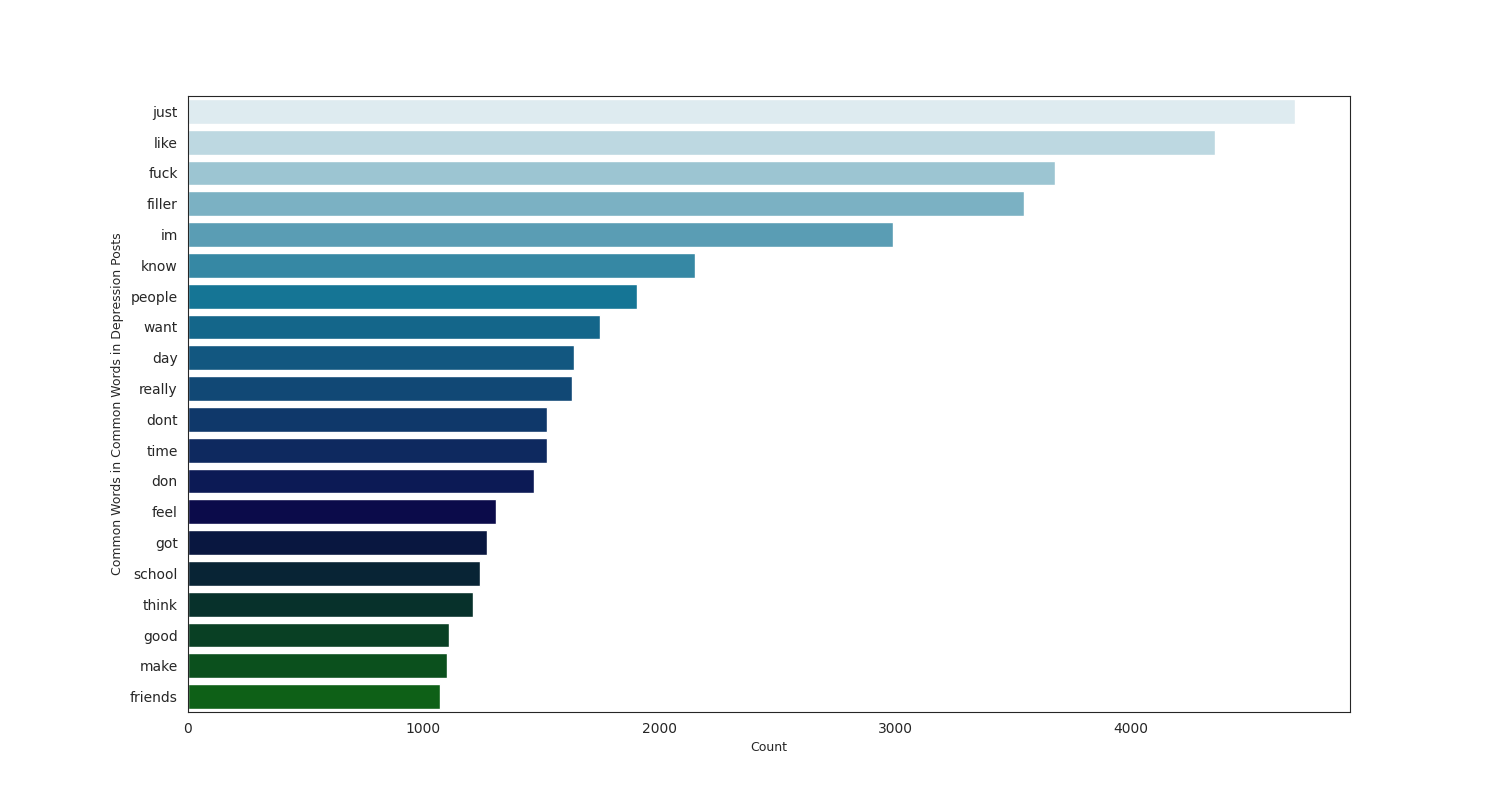
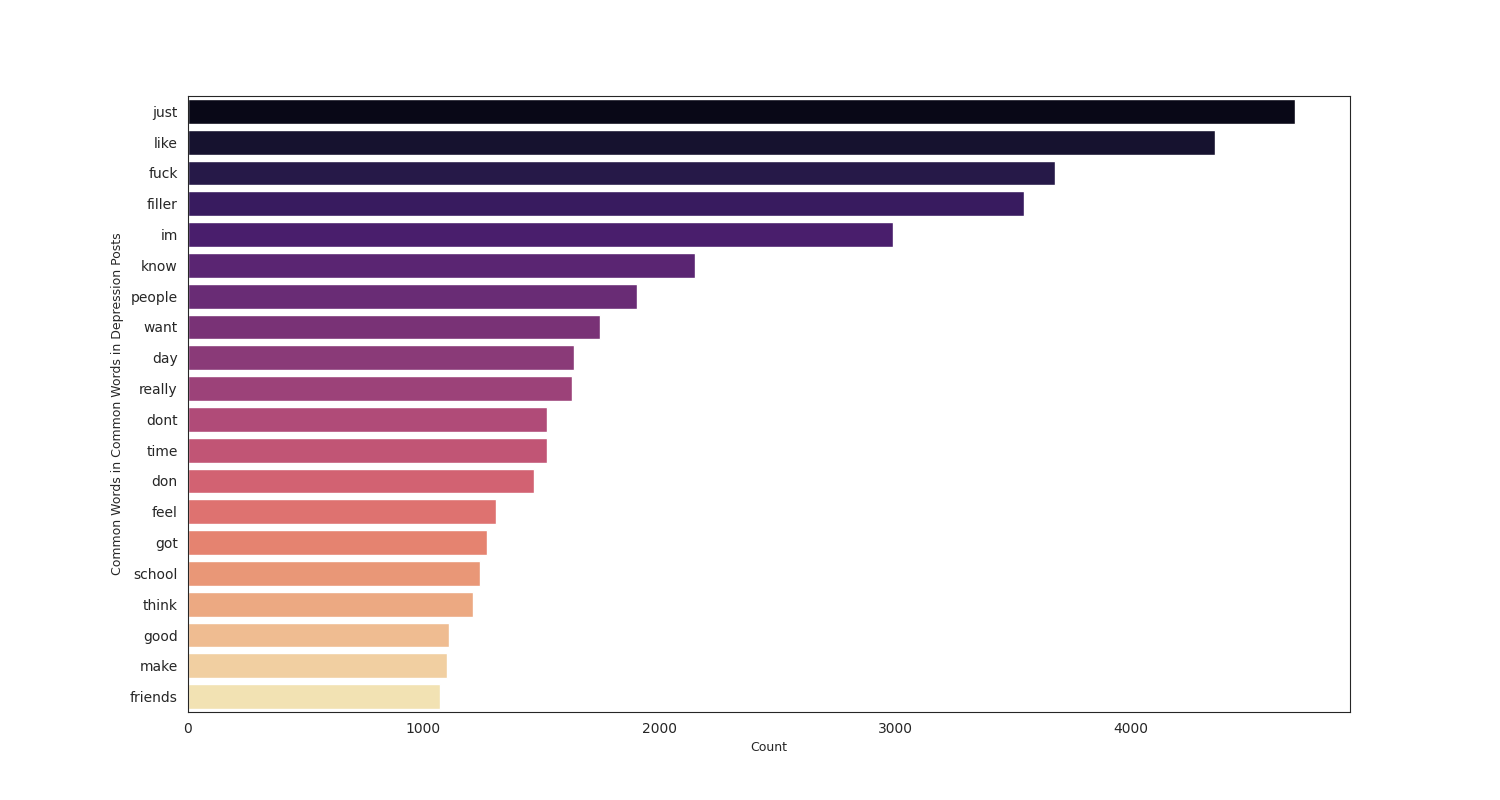
Finish post length plot (figure is saved)

Changed region(s): [[0.1227, 0.125, 0.8893, 0.9062]]

diff --git a/text_feature_exploration.py b/text_feature_exploration.py
@@ -7,6 +7,7 @@ import pandas as pd
 import seaborn as sns
 import matplotlib.pyplot as plt
 from PIL import Image
+from statistics import mean
 
 
 
@@ -48,9 +49,45 @@ def plot_most_used_words(dataname, data_series, palette):
     plt.ylabel('Common Words in ' + dataname, fontsize=9)
     plt.savefig('/home/nauxiy/Workspace/Suicidal-posts-detection-SNLP-/plots/' + dataname + ".png")
 
-    plt.show()
+    # plt.show()
     
 
 plot_most_used_words("Common Words in Suicidal Posts", suicide_posts, palette="ocean_r")
-plot_most_used_words("Common Words in Depression Posts", depress_posts, palette="ocean_r")
+plot_most_used_words("Common Words in Depression Posts", depress_posts, palette="magma")
 plot_most_used_words("Common Words in General Posts", general_posts, palette="ocean_r")
+
+# COLLECT EACT POST'S LENGTH
+sui_selftext_length = [len(suicide_posts[i]) for i in range(len(suicide_posts))]
+dep_selftext_length = [len(depress_posts[i]) for i in range(len(suicide_posts))]
+gen_selftext_length = [len(general_posts[i]) for i in range(len(suicide_posts))]
+
+# CALCULATE AVERAGE POST LENGTH IN EACH CLASS
+ave_sui_selftext_length = mean(sui_selftext_length)
+ave_dep_selftext_length = mean(dep_selftext_length)
+ave_gen_selftext_length = mean(gen_selftext_length)
+
+print("__________________________________")
+print("Average length of a suicidal post: {}".format(ave_sui_selftext_length))
+print("Average length of a depression post: {}".format(ave_dep_selftext_length))
+print("Average length of a general post: {}".format(ave_gen_selftext_length))
+
+
+# MAPPING POST LENGTH WITH THE LABEL
+all_post_length = sui_selftext_length + dep_selftext_length + gen_selftext_length
+all_labels = suicide_label + depress_label + general_label 
+label_post_dict = {'post length':all_post_length, 'labels': all_labels}
+df = pd.DataFrame(label_post_dict)
+sns.set_theme(style="ticks", palette="pastel")
+plt.figure(figsize = (18, 12))
+sns.boxplot(data =df,
+               y = 'post length', 
+               x = 'labels',
+               hue = "labels",
+               palette = "magma_r",
+               showfliers = False
+               );
+plt.title("Length of Posts");
+plt.xlabel("posts");
+plt.ylabel("Number of words");
+plt.savefig('/home/nauxiy/Workspace/Suicidal-posts-detection-SNLP-/plots/' + "length_of_posts.png")
+plt.show()
